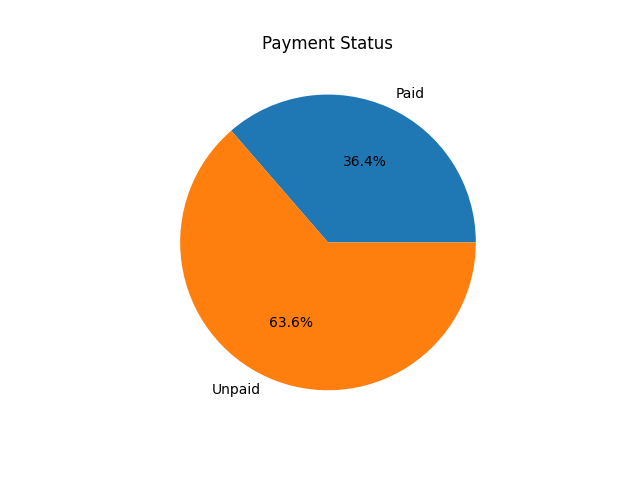
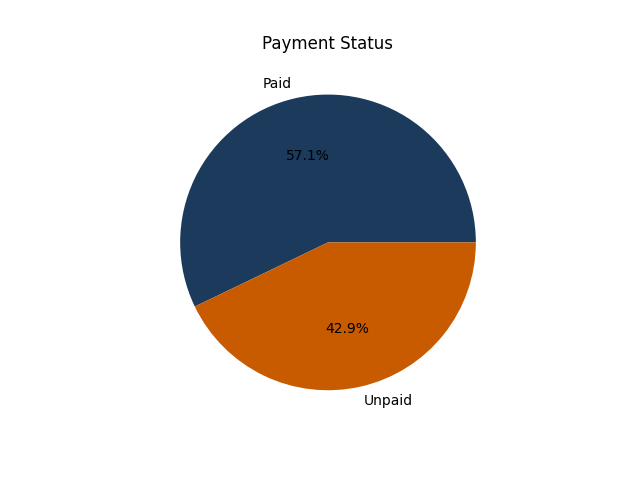
Day25b -Colours, Figure size, Horizontal Bar Chart & Line chart

Changed region(s): [[0.2812, 0.1562, 0.75, 0.8438]]

diff --git a/day25b.py b/day25b.py
@@ -1,0 +1,44 @@
+import sqlite3
+import pandas as pd
+import matplotlib.pyplot as plt
+
+conn = sqlite3.connect("kalikeng.db")
+df = pd.read_sql_query("SELECT * FROM clients", conn)
+conn.close()
+
+plt.figure(figsize=(10, 6))
+
+plt.bar(df["name"], df["amount"], color="steelblue")
+plt.title("Client Amounts")
+plt.xlabel("Amount (R)")
+plt.ylabel("Client")
+plt.savefig("kalikeng_bar_chart.png")
+plt.show()
+plt.clf()
+
+plt.barh(df["name"], df["amount"], color="steelblue")
+plt.title("Client Amounts")
+plt.xlabel("Amount (R)")
+plt.ylabel("Client")
+plt.savefig("kalikeng_barh_chart.png")
+plt.show()
+plt.clf()
+
+plt.plot(df["name"], df["amount"], marker="o", color="navy")
+plt.title("Client Amount Trend")
+plt.xlabel("Client")
+plt.ylabel("Amount (R)")
+plt.show()
+plt.clf()
+
+colors = ["#1B3A5C", "#C85A00"]
+paid = len(df[df["status"] == "Paid"])
+unpaid = len(df[df["status"] == "Unpaid"])
+plt.pie([paid, unpaid], labels=["Paid", "Unpaid"], colors=colors, autopct="%1.1f%%")
+plt.title("Payment Status")
+plt.savefig("kalikeng_pie_chart.png")
+plt.show()
+plt.clf()
+
+print("All charts saved!")
+
